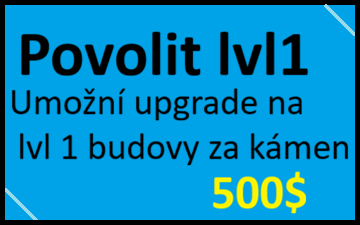
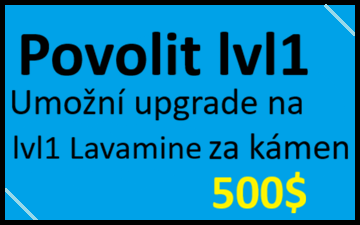
Updated files and added files
Přidal jsem několik dalších assetů a upravil crystalmine texturu a texturu pozadí.

Changed region(s): [[0.0306, 0.5911, 0.5806, 0.7467]]

diff --git a/Lavamine_main.py b/Lavamine_main.py
@@ -3,6 +3,7 @@ import pygame
 import button
 import os
 import sys
+import random #Pro lehké náhodné změny čísel u countru peněz, aby vypadal lépe
 # ===Funkce===
 def sound_play(sound): #zkrátí potřebu pro psaní celého příkazu
     pygame.mixer.Sound.play(sound)
@@ -15,7 +16,10 @@ def resource_path(relative_path): #Přemění absolutní cesty na relativní
     return os.path.join(base_path, relative_path)
 #Počítadla📊
 def peníze_counter(x, y):
-    counter_img = counter_font.render (f"$Prachy: {int(peníze)}", True, [40, 120, 10]) #TODO: u všech countrů přidat randomnumber offest, aby se to někdy updatovalo o 1, někdy o 2 a někdy o 3 i když normální value je stejný
+    if peníze > 500 and not peníze == 9999:
+        counter_img = counter_font.render (f"$Prachy: {int(peníze + random.randint(1,2))}", True, [40, 120, 10])
+    else:
+        counter_img = counter_font.render (f"$Prachy: {int(peníze)}", True, [40, 120, 10])   
     screen.blit(counter_img, (x, y))
 def kamení_counter(x, y):
     counter_img = counter_font.render (f"Kamení: {int(kamení)}", True, [60, 60, 60])
@@ -40,10 +44,11 @@ pygame.display.set_caption("Lavamine v0.5") #TODO: updatovat verze Lavamine při
 screen = pygame.display.set_mode((1280, 720))
 #verze hry
 version_font = pygame.font.Font("freesansbold.ttf", 20) 
-version_img = version_font.render ("v 0.5.1dev 18.12.2025", True, [255, 100, 100]) #TODO: updatovat verzi a datum vydání verze
+version_img = version_font.render ("v 0.5.2dev 21.12.2025", True, [255, 100, 100]) #TODO: updatovat verzi a datum vydání verze
 #načtení zvuků
 click = pygame.mixer.Sound(resource_path("sound\click.ogg"))
 click_logo = pygame.mixer.Sound(resource_path("sound/fnaf-freddys-nose-sound.ogg"))
+explosion = pygame.mixer.Sound(resource_path("sound/fnaf-freddys-nose-sound.ogg")) #TODO: najít zvuk pro tohle a taky přidat kód do tlačítka pro zvuky
 error = pygame.mixer.Sound(resource_path("sound\error.ogg"))
 build = pygame.mixer.Sound(resource_path("sound\postavit.ogg"))
 tower_build = pygame.mixer.Sound(resource_path("sound/tower.ogg"))
@@ -55,6 +60,7 @@ settings_img = pygame.image.load(resource_path("assets\Settings_button.png")).co
 background_img = pygame.image.load(resource_path("assets\Lavamine_back.png")).convert_alpha()
 research_background_img = pygame.image.load(resource_path("assets\Research_back.png")).convert_alpha()
 research_img = pygame.image.load(resource_path("assets\Vyzkum.png")).convert_alpha()
+tutorial_img = pygame.image.load(resource_path("assets\Tutorial.png")).convert_alpha()
 menu_img = pygame.image.load(resource_path("assets\Menu.png")).convert_alpha()
 back_img = pygame.image.load(resource_path("assets\Back.png")).convert_alpha()
 Lvl1_research_img = pygame.image.load(resource_path("assets\Lvl1.png")).convert_alpha()
@@ -76,6 +82,7 @@ exit_button = button.button( 800, 140, exit_img, 1)
 settings_button = button.button( 440, 400, settings_img, 1)
 background = button.button ( 0, 0, background_img, 1) #pozadí pro hlavní hru
 research_background = button.button ( 0, 0, research_background_img, 1) #pozadí pro research obrazovku
+tutorial_background = button.button ( 0, 0, tutorial_img, 1) #Pozadí pro tutorial
 research_button = button.button( 993, 540, research_img, 0.8)
 menu_button = button.button( 1082, 0, menu_img, 0.55)
 back_button = button.button( 0, 0, back_img, 0.8)
@@ -88,7 +95,7 @@ lavamine2 = button.button(765, 15, lavamine_img, 1)
 stone_mine = button.button(300, 350, stonemine_img, 1)
 stone_mine1 = button.button(300, 535, stonemine_img, 1)
 
-crystal_mine = button.button(50, 209, crystalmine_img, 1)
+crystal_mine = button.button(10, 112, crystalmine_img, 1)
 crystal_mine1 = button.button(760, 360, crystalmine_img, 1)
 
 tower = button.button(520, 68, tower_img, 1.2)
@@ -108,19 +115,28 @@ krystaly_fontY = 630
 peníze = 150
 kamení = 0
 krystaly = 0
+
 lavamine_level = 0
 lavamine1_level = 0
 lavamine2_level = 0
+
 stonemine_level = 0
 stonemine1_level = 0
+
 crystalmine_level = 0
 crystalmine1_level = 0
+
+tower_čekání = 0
+čekání_counter = 0
 
 lvl1_research = False
 crystalrsch = False
 tower_research = False
 mining_upgrade = False
 
+ending_screen = False
+self_clicked_tutorial = True
+played_tutorial = False
 clicked_zvuk = 0
 zvuk = "on"
 fps = 20 #framerate
@@ -130,6 +146,7 @@ clock = pygame.time.Clock() #definuje hodiny
 hlavní_hra = False
 nastavení = False
 research_screen = False
+tutorial_screen = False
 
 run = True #spustí loop
 # ===🛞Hlavní loop===
@@ -145,7 +162,8 @@ while run:
             pygame.mixer.quit() #vypne zvukový modul
             pygame.quit() #vypne pygame
             sys.exit() #Zavře vše pomocí systému
-    # materiálový příděl ⬇
+
+    # materiálový příděl ⬇ 
     if lavamine_level == 1:
         peníze = peníze + 0.5
     if lavamine_level == 2:
@@ -186,16 +204,37 @@ while run:
         kamení = 9999
     if krystaly > 9999: #stejný důvod
         krystaly = 9999
+    
+    if tower_research == "čeká":
+        tower_čekání = tower_čekání + 1
+        if tower_čekání == 25:
+            tower_research = "postavena"
 
     #renderovat hru tady⬇
     screen.fill("orange")
     version_show(version_img)
+    #toto zabrání aby hned po tutorialu si omylem něco zmáčknul
+    if hlavní_hra == "čeká":
+        čekání_counter = čekání_counter + 1
+        if tutorial_background.draw(screen):
+            print()
+        if čekání_counter == 5:
+            hlavní_hra = True
     # === tlačítka ===
     if hlavní_hra == False: #Pokud jsem v menu ukáže se
         if start_button.draw(screen): #pokud je true proměnná action, udělá věci
             print("🧩Tlačítko START zmáčknuto")
             sound_play(click)
-            hlavní_hra = True
+            if played_tutorial == True: 
+                hlavní_hra = True
+            elif played_tutorial == False:
+                hlavní_hra = "ostatní"
+                tutorial_screen = True
+                print("🧩START zahajuje tutorial 1/2")
+            else:
+                print("❌Tlačítko start neví co udělat")
+            start_img = pygame.image.load(resource_path("assets\Start1.png")).convert_alpha()
+            start_button = button.button( 100, 140, start_img, 1)
         if exit_button.draw(screen):
             print("🧩Tlačítko EXIT zmáčknuto")
             run = False
@@ -275,8 +314,8 @@ while run:
                     print("🛠Crystalmine postaven")
                     peníze = peníze - 800
                     kamení = kamení - 400
-                    crystalmine_img = pygame.image.load(resource_path("assets\Crystalmine1.png")).convert_alpha()
-                    crystal_mine = button.button(50, 209, crystalmine_img, 1)
+                    crystalmine_img = pygame.image.load(resource_path("assets\Crystalmine2.png")).convert_alpha()
+                    crystal_mine = button.button(10, 112, crystalmine_img, 1)
                     crystalmine_level = 1
             if crystal_mine1.draw(screen):
                 if crystalmine1_level == 0 and peníze > 799 and kamení > 399 and crystalrsch == True:
@@ -313,9 +352,14 @@ while run:
                     peníze = peníze - 3500
                     kamení = kamení - 1500
                     krystaly = krystaly - 800
-                    tower_research = "postavena"
+                    tower_research = "čeká"
                     tower_img = pygame.image.load(resource_path("assets\TOWER1.png")).convert_alpha()
                     tower = button.button(520, 68, tower_img, 1.2)
+                if tower_research == "postavena":
+                    sound_play(explosion)
+                    print("🧩VĚŽ zahajuje ending")
+                    hlavní_hra = "ostatní"
+                    ending_screen = True
         #verze
         version_show(version_img)
         #Počítadla 📊
@@ -345,6 +389,7 @@ while run:
             crystalrsch_button = button.button(360, 260, crystalrsch_img, 0.9) #updatne svůj vzhled
         if tower_research_button.draw(screen) and peníze > 2499 and kamení > 799 and krystaly > 499 and tower_research == False: 
             print("🧩Tlačítko VĚŽ výzkum zmáčknuto")
+            hlavní_hra = "čeká"
             sound_play(error)
             tower_research = True #umožní stavět VĚŽ
             peníze = peníze - 2500
@@ -397,6 +442,41 @@ while run:
                 sound_button = button.button( 250, 50, sound_img, 0.8)
                 print("🔇Zvuk vypnut")
                 clicked_zvuk = 0
+    if tutorial_screen == True:
+        if tutorial_background.draw(screen):
+                if pygame.mouse.get_pressed()[0] == 1 and self_clicked_tutorial == False and played_tutorial == False: #zabraňuje tomu aby držení myši okamžitě přskočilo tutorial, myš musí být zmáčknuta znovu
+                    self_clicked_tutorial = True #Zastaví další zmáčknutí
+                    print("🧩TUTORIAL zmáčknut 2/2")
+                    tutorial_img = pygame.image.load(resource_path("assets\Tutorial1.png")).convert_alpha()
+                    tutorial_background = button.button ( 0, 0, tutorial_img, 1)
+                    played_tutorial = True
+                    self_clicked_tutorial = True
+                elif pygame.mouse.get_pressed()[0] == 1 and self_clicked_tutorial == False and played_tutorial == True: #pokud je myš zmáčknuta po 2. tak se tohle spustí
+                    print("🧩TUTORIAL zmáčknut (tutorial dokončen)")
+                    hlavní_hra = "čeká"
+                    tutorial_screen = False
+                else:
+                    self_clicked_tutorial = False #odklikne tlačítko, aby se mohlo znovu zmáčknout
+        #Tutorial text
+        if played_tutorial == False:
+            tutorial_text1 = counter_font.render ("Ahoj, já jsem Helperbot 3!", True, [0, 0, 0]) #tady napsat text a barvu
+            screen.blit(tutorial_text1, (25, 40)) #ukáže text
+            tutorial_text2 = counter_font.render ("Mým cílem je ti pomoct s vytěžením všeho co tu je.", True, [0, 0, 0]) 
+            screen.blit(tutorial_text2, (25, 90)) 
+            tutorial_text3 = counter_font.render ("Tak pojď na to!", True, [0, 0, 0]) 
+            screen.blit(tutorial_text3, (25, 140))
+        else:
+            tutorial_text4 = counter_font.render ("Je to velmi lehké, takže řeknu jenom začátek.", True, [0, 0, 0]) 
+            screen.blit(tutorial_text4, (25, 40))
+            tutorial_text5 = counter_font.render ("Toto je panel se zdroji, ukazuje kolik máte zdrojů.", True, [0, 0, 0]) 
+            screen.blit(tutorial_text5, (10, 200))
+            tutorial_text6 = counter_font.render ("Toto je Lavamine, postav ho pro více peněz.", True, [0, 0, 0]) 
+            screen.blit(tutorial_text6, (470, 280))
+            tutorial_text7 = counter_font.render ("To je vše, zbytek určitě zvládnete, tak čau!", True, [0, 0, 0]) 
+            screen.blit(tutorial_text7, (500, 600))
+    if ending_screen == True:
+        ending_text1 = counter_font.render ("Ending je WIP, děkuji za hraní!", True, [0, 0, 0]) 
+        screen.blit(ending_text1, (25, 40))
 
     pygame.display.update()
     clock.tick(fps)
